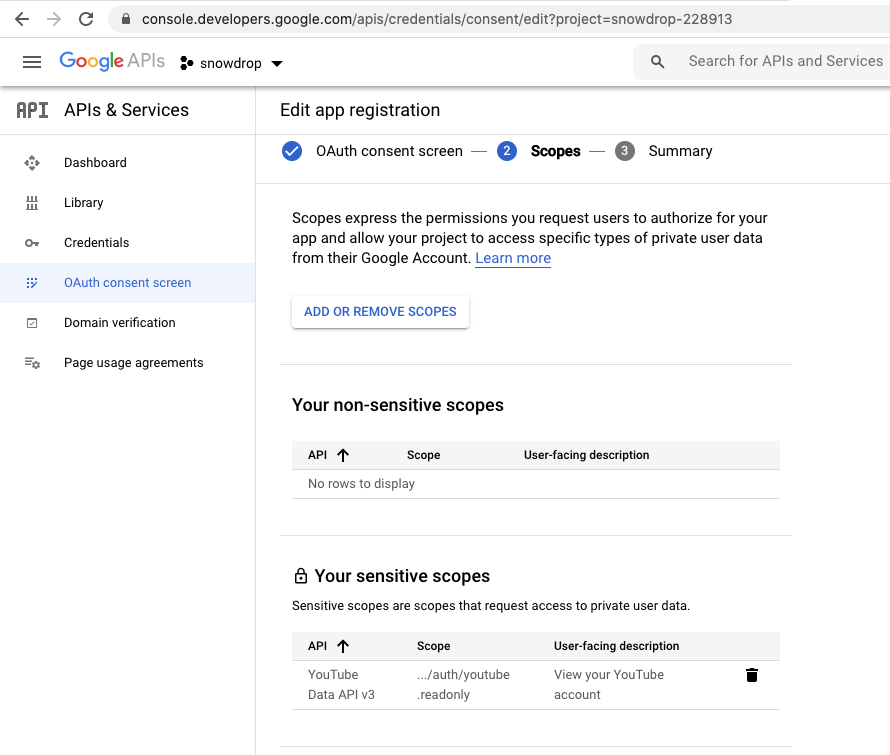
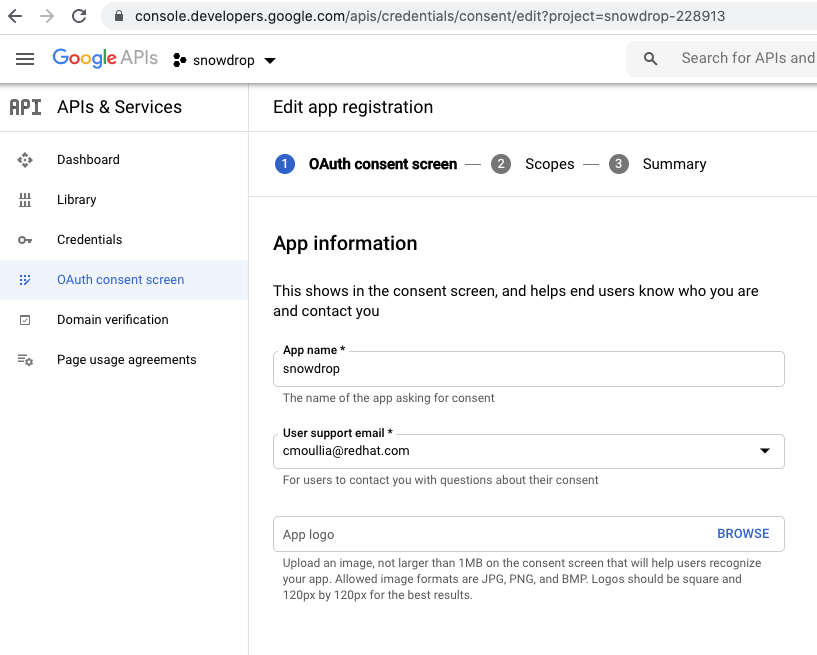
Add nex pictures and review process to define Google API

diff --git a/volumio.md b/volumio.md
@@ -157,23 +157,44 @@ volumio@volumio:/data/plugins/music_service/youtube$ cat package.json
 	}
 }
 ```
-- Create a Google Api Key to access the `Youtube Data API` with the help the google developer console `https://console.developers.google.com/`.
+- Create a Google Api Key to able to access the `Youtube Data API` with the help the google developer console `https://console.developers.google.com/`.
+
   **WARNING**: Use a Google Suite user to perform the following steps otherwise it will not be possible to register the API as an `internal` application
   but only as an `external` application that Google must approve and where it is needed to have `URLs` they can be accessed remotely to approve your request !!
   
-- From the left menu, click on the `dashboard` button and next on `+ Enable APIS and Service`
+- From the left menu, click on the `dashboard` button and next on `+ Enable APIS and Service` to add (if not yet done) the `YouTube Data API v3` API/Service
   ![](images/enable_apis_services_button.png?raw=true)
   
 - Select from the library `YouTube Data API v3` and click on the button `Enable`
-- From the left menu, click on the `Credentials` button and from the popup list `Api Keys`
+  ![](images/enable_youtube_service.png?raw=true)
+  
+- From the left menu, click on the `Credentials` button and select from the popup list - `Api Keys`
+  ![](images/popup_credentials.png?raw=true)
+  
+- An api key will be generated as showed hereafter
+  ![](images/api_key_created.png?raw=true)
 
-- From the left menu, click on the `Credentials` button and from the popup list `OAuthClient ID` 
+- Within the screen listing the different key, select the one which has been created and rename it to `volumio`    
+  ![](images/edit_api_key.png?raw=true)
+  
+- From the left menu, click on the `Credentials` button and `OAuthClient ID` from the popup list
 - Select as `application type`, `Desktop App` and name it `volumio-youtube-USERNAME`
-- From the left menu, click on the `Oauth Consent Screen` button,  edit the application by clicking on the button `edit app`
-- Add your email address as requested and specify the nalme of the application `volumio`
-- Click on the button next and click on the button `add or remove scopes` to select `.../auth/youtube.readonly`
-- finally click on save and continue
-- You have finished :-)
+  ![](images/create_oauth_client_id.png?raw=true)
+  
+- When this process is done, it is needed the let the API to be able to access the `Youtube Data API` to read/view content
+  So from the left menu, click on the `Oauth Consent Screen` button, and next edit the application by clicking on the button `edit app`
+  ![](images/oauth_consent_edit_app.png?raw=true)
+  
+  Add your email address as requested and specify the name of the application: `volumio`
+  ![](images/oauth_consent.png?raw=true)
+  
+- Click on the button `Save and continue` and next click on the button `add or remove scopes` to select `.../auth/youtube.readonly`
+  ![](images/oauth_consent_scope.png?raw=true)
+  ![](images/oauth_consent_select_scope.png?raw=true)
+  ![](images/oauth_consent_scope_added.png?raw=true)
+    
+  Finally click on `save and continue` button. You have finished :-)
+  
 - Copy from the Credentials screen the `API Key` screen of the `Volumio key` 
 - Next select under the list of the `Oauth2 Client ID`, the Client ID `volumio-youtube-USERNAME` and then you will be able to get the `client ID` and `Secret ID`
  
